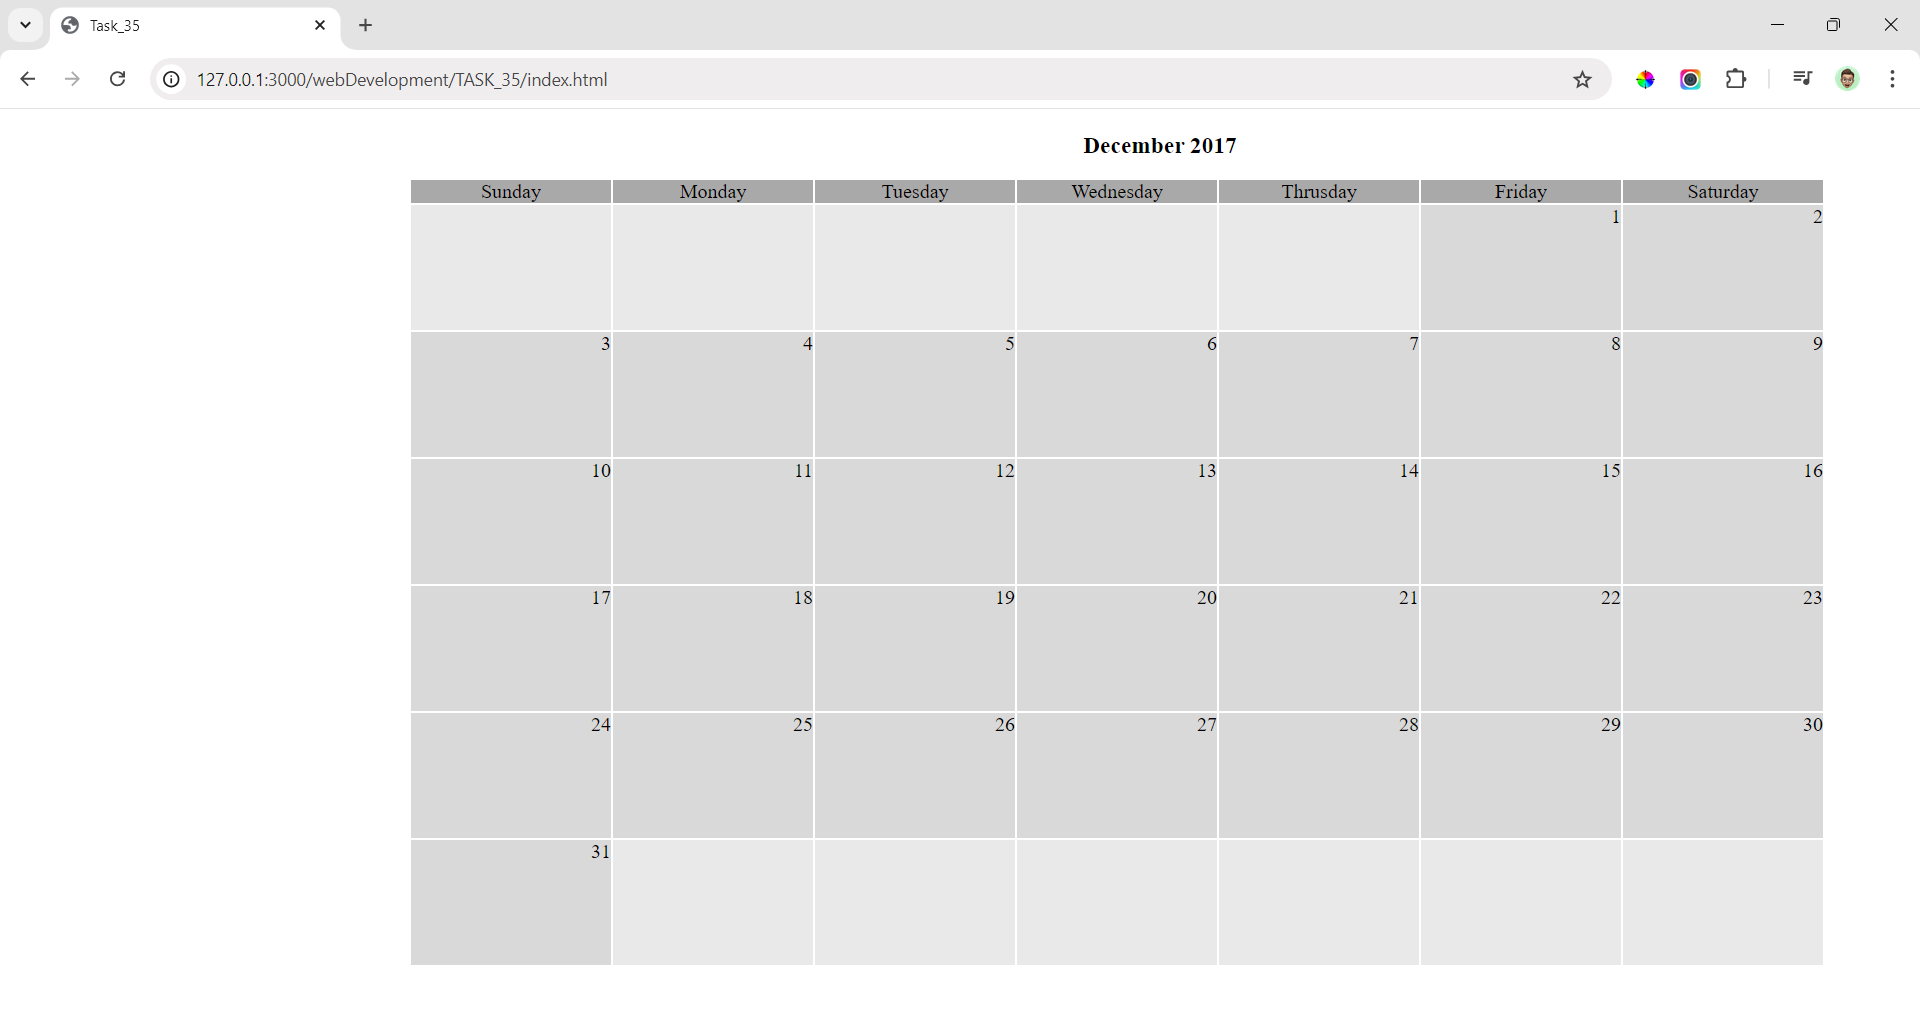
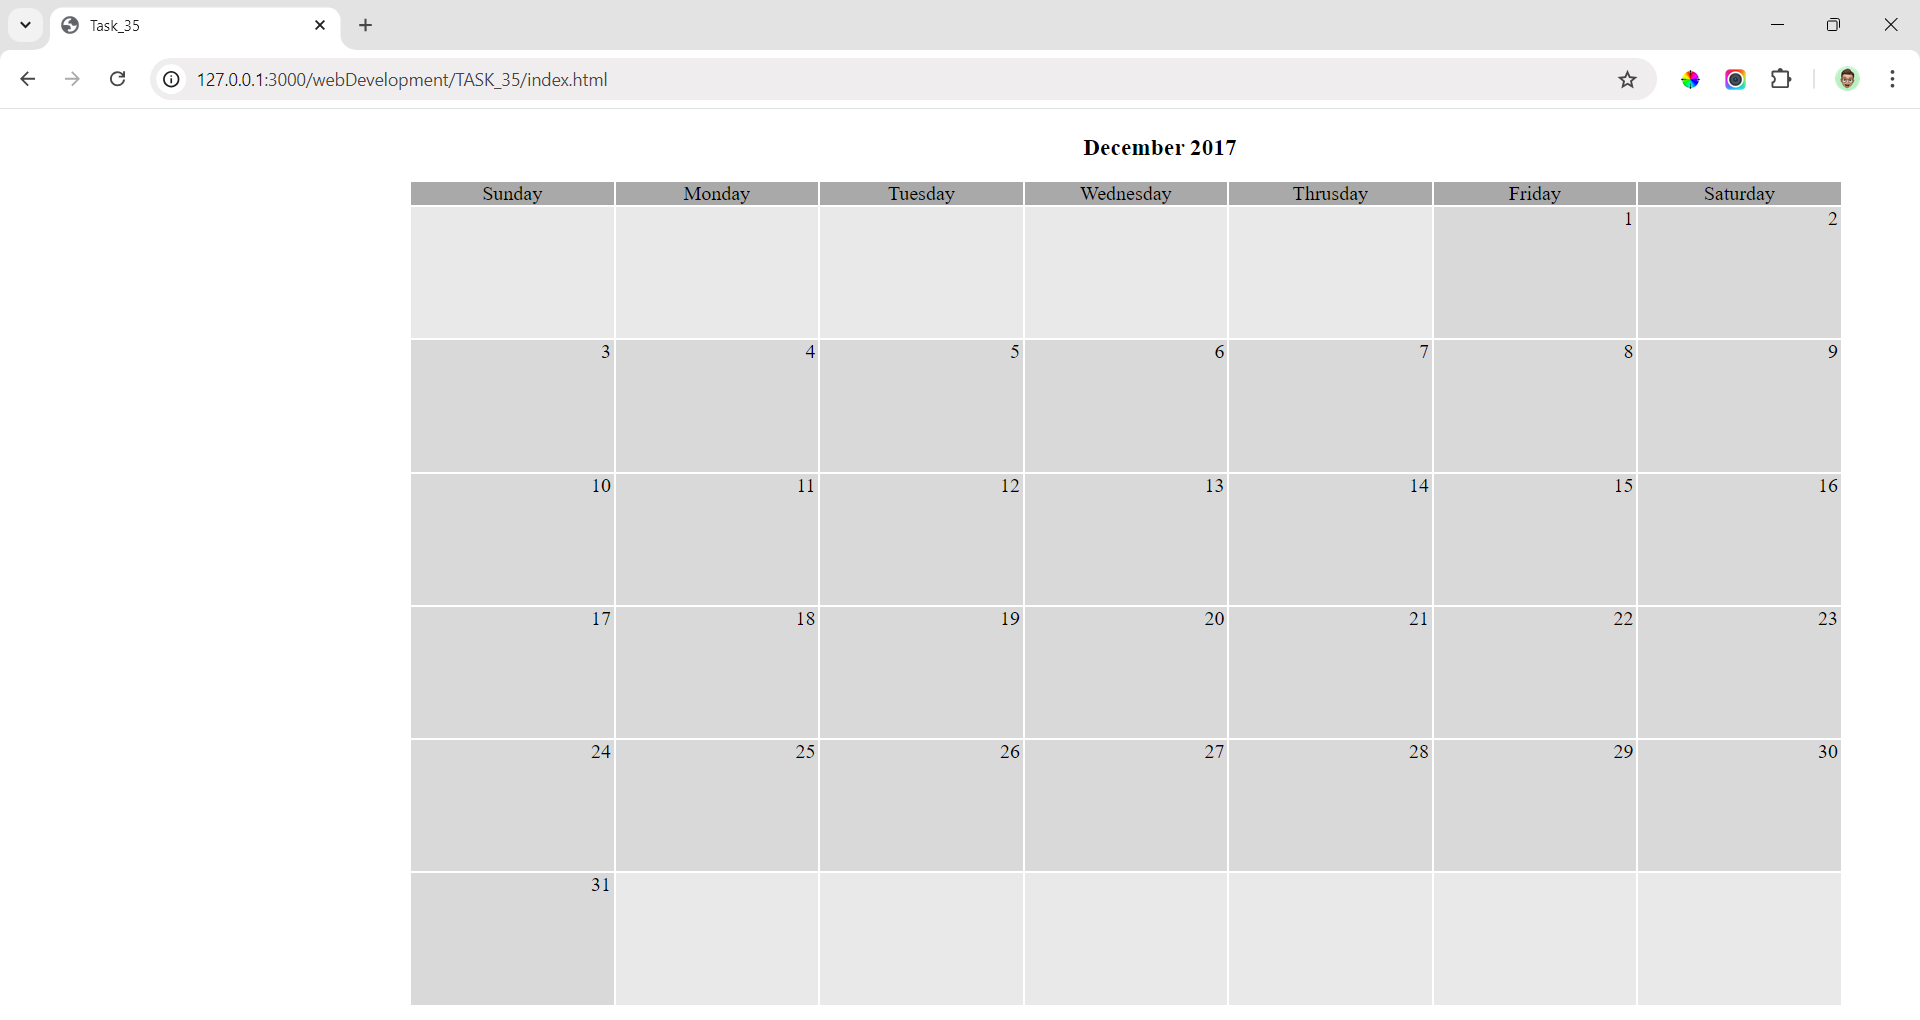
modified task_35

diff --git a/webDevelopment/TASK_35/index.html b/webDevelopment/TASK_35/index.html
@@ -13,6 +13,7 @@
             width: 1200px;
             height: 500px;
             margin-left: 320px;
+            margin-top: 20px;
         }
 
         h3 {
@@ -27,7 +28,7 @@
         
         .days {
             background-color: #AAA9A9;
-            width: 160px;
+            width: 162px;
             border: 1px solid white;
             text-align: center;
             margin-bottom: 0;
@@ -39,22 +40,24 @@
 
         .blankDate {
             width: 160px;
-            height: 100px;
+            height: 105px;
             background-color: #EAE9E9;
             border: 1px solid white;
             text-align: end;
             margin-top: 0;
             margin-bottom: 0;
+            padding-right: 2px;
         }
 
         .date {
             width: 160px;
-            height: 100px;
+            height: 105px;
             background-color: #D9D9D9;
             border: 1px solid white;
             text-align: end;
             margin-top: 0;
             margin-bottom: 0;
+            padding-right: 2px;
         }
     </style>
 </head>
